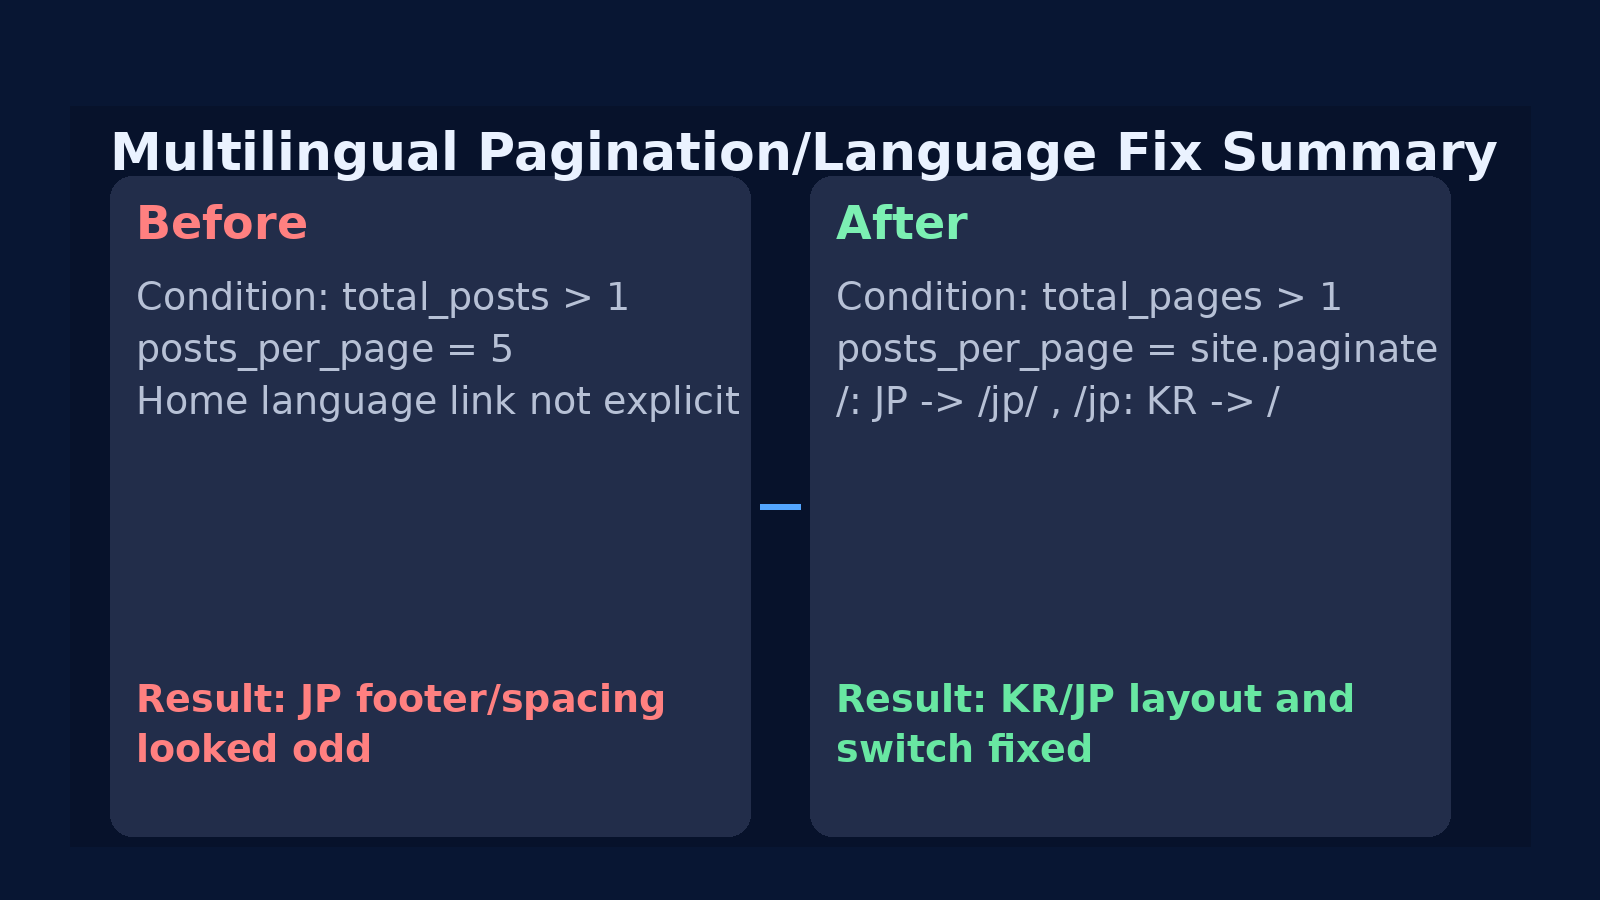
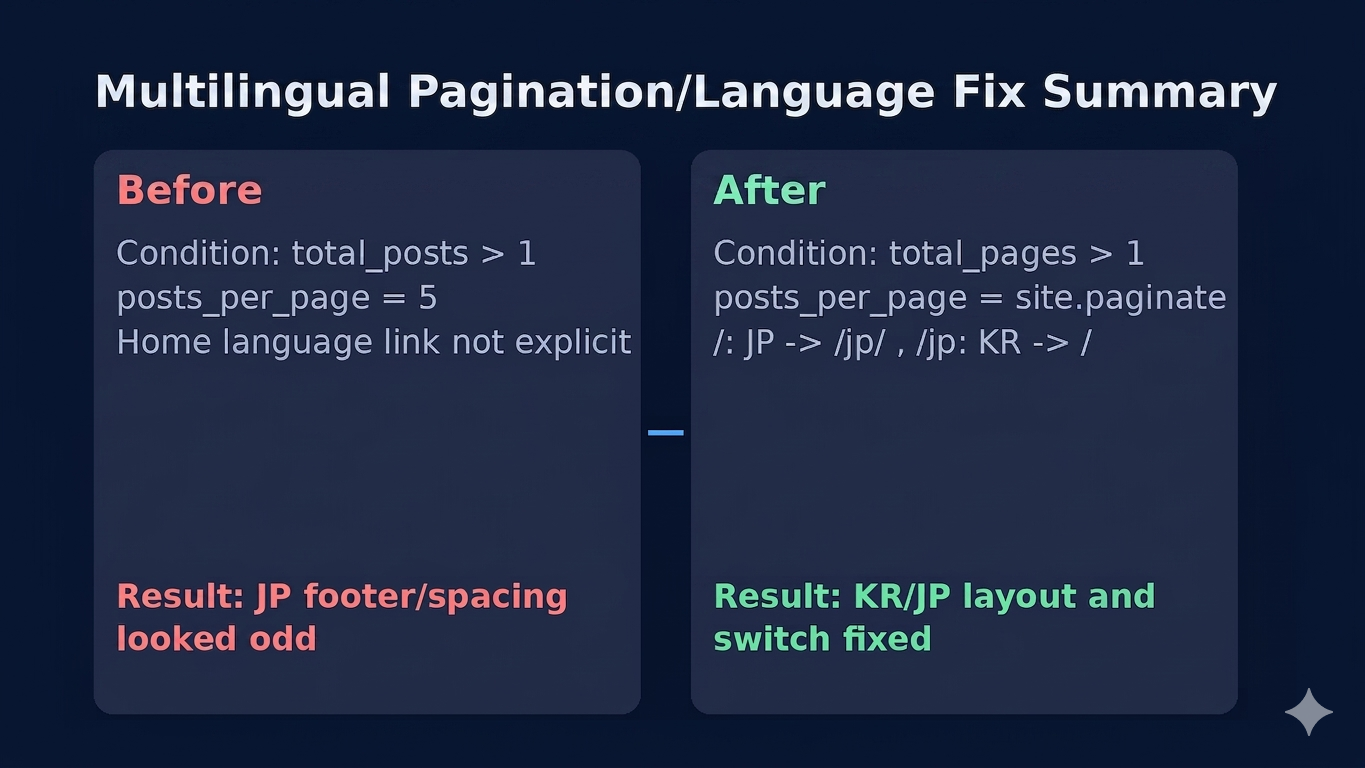
fix: finalize blog post images and language switcher styling

diff --git a/_includes/_partial/head.html b/_includes/_partial/head.html
@@ -640,6 +640,41 @@
         border-color: rgba(139, 92, 246, 0.34);
       }
 
+      @media (min-width: 769px) {
+        body.home-page header nav > ul > li.nav-lang-item .nav-lang {
+          display: grid;
+          grid-template-columns: repeat(2, minmax(0, 1fr));
+          gap: 10px;
+          width: 100%;
+        }
+
+        body.home-page header nav > ul > li.nav-lang-item .nav-lang .nav-lang-link {
+          display: inline-flex;
+          align-items: center;
+          justify-content: center;
+          padding: 12px 14px;
+          border: 1px solid #007bff;
+          border-radius: 18px;
+          text-decoration: none;
+          background-color: #f8f9fa;
+          color: #007bff;
+          font-weight: 700;
+          transform: none;
+        }
+
+        body.home-page header nav > ul > li.nav-lang-item .nav-lang .nav-lang-link:hover {
+          transform: none;
+          background-color: #eaf3ff;
+          border-color: #0a84ff;
+        }
+
+        body.home-page header nav > ul > li.nav-lang-item .nav-lang .nav-lang-link.is-active {
+          background-color: #007bff;
+          color: #ffffff;
+          border-color: #007bff;
+        }
+      }
+
       body.home-page header .home-profile {
         margin-top: 24px;
         padding: 18px;

diff --git a/_posts/2026-05-27-github-blog-fix-part1.md b/_posts/2026-05-27-github-blog-fix-part1.md
@@ -15,7 +15,7 @@ lang: ko
 
 <br /><br />
 
-![GitHub Pages 배포와 baseurl 수정 요약](/assets/img/posts/2026-05-27-github-blog-fix/2026-05-27-part1-deploy-path-fix-v1.png)
+![GitHub Pages 배포와 baseurl 수정 요약](/assets/img/posts/2026-05-27-github-blog-fix/2026-05-27-part1-deploy-path-fix-v2.svg)
 
 <br /><br />
 

diff --git a/_posts/2026-05-27-github-blog-fix-part2.md b/_posts/2026-05-27-github-blog-fix-part2.md
@@ -15,7 +15,7 @@ lang: ko
 
 <br /><br />
 
-![다국어 페이지네이션과 언어 전환 수정 요약](/assets/img/posts/2026-05-27-github-blog-fix/2026-05-27-part2-pagination-lang-fix-v1.png)
+![다국어 페이지네이션과 언어 전환 수정 요약](/assets/img/posts/2026-05-27-github-blog-fix/2026-05-27-part2-pagination-lang-fix-v2.svg)
 
 <br /><br />
 

diff --git a/jp/_posts/2026-05-27-github-blog-fix-part1.md b/jp/_posts/2026-05-27-github-blog-fix-part1.md
@@ -15,7 +15,7 @@ GitHubブログを運用していると、記事の内容より先に**デプロ
 
 <br /><br />
 
-![GitHub Pagesデプロイとbaseurl修正の要約](/assets/img/posts/2026-05-27-github-blog-fix/2026-05-27-part1-deploy-path-fix-v1.png)
+![GitHub Pagesデプロイとbaseurl修正の要約](/assets/img/posts/2026-05-27-github-blog-fix/2026-05-27-part1-deploy-path-fix-v2.svg)
 
 <br /><br />
 

diff --git a/jp/_posts/2026-05-27-github-blog-fix-part2.md b/jp/_posts/2026-05-27-github-blog-fix-part2.md
@@ -15,7 +15,7 @@ lang: jp
 
 <br /><br />
 
-![多言語ページネーションと言語切替修正の要約](/assets/img/posts/2026-05-27-github-blog-fix/2026-05-27-part2-pagination-lang-fix-v1.png)
+![多言語ページネーションと言語切替修正の要約](/assets/img/posts/2026-05-27-github-blog-fix/2026-05-27-part2-pagination-lang-fix-v2.svg)
 
 <br /><br />
 